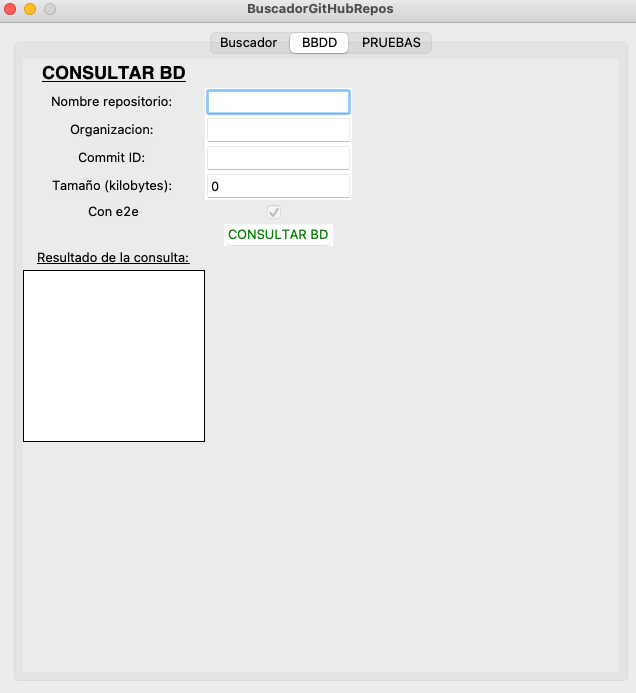
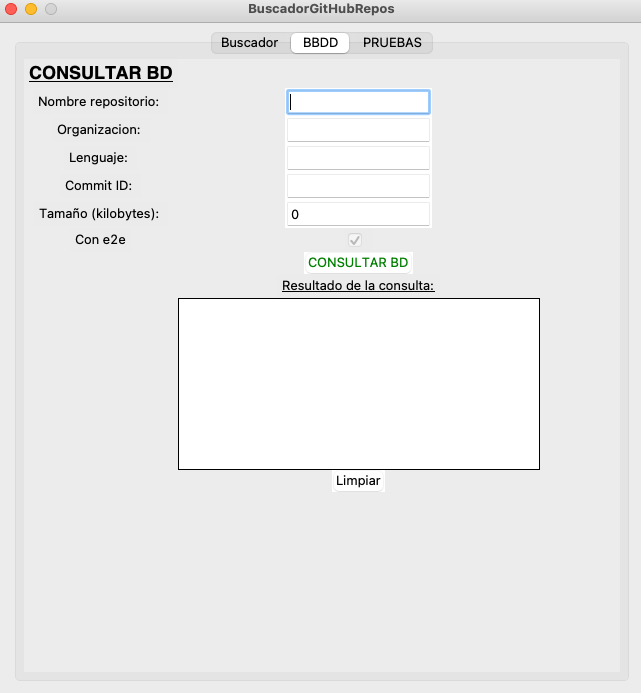
Mejora pestaña 2 interfaz
Se mejora la pestaña 2 de la interfaz con "tkinter" del buscador

diff --git a/buscador-ui.py b/buscador-ui.py
@@ -111,6 +111,7 @@ def consultarBD():
     repo.setSize(sizeBD_state.get())
     repo.setCommitID(commitIdBD_state.get())
     repo.setBoE2e(boE2eCheck_state.get())
+    repo.setTstbd("")
 
     query = repo.getFiltro()
 
@@ -119,7 +120,11 @@ def consultarBD():
     filas = executeQuery.execute(query)
 
     for fila in filas:
-        listadoBD.insert(0, fila)
+        id = fila["idrepo"]
+        nombre = fila["nombre"]
+        organizacion = fila["organizacion"]
+        url = fila["url"]
+        listadoBD.insert(0, "[" + str(id) + "]" +organizacion + "/" + nombre + ": " + "'" + url + "'")
 
 def randomizarReposCheck_clicked():
     if randomizarReposCheck_state.get():
@@ -128,6 +133,10 @@ def randomizarReposCheck_clicked():
     else:
         nRandomRepos_state.set(0)
         nRandomRepos.config(state=tk.DISABLED)
+
+def limpiarResultados():
+    print("Limpiando base de datos...")
+    listadoBD.delete(0, tk.END)
 
 # PESTAÑA 1
 
@@ -428,15 +437,22 @@ row+=1
 
 # Resultado de la búsqueda
 resultadoLbl = tk.Label(p2, text="Resultado de la consulta:", bg=backgroudLblColor)
-resultadoLbl.grid(column=0, row=row)
+resultadoLbl.grid(column=1, row=row)
 f = font.Font(resultadoLbl, resultadoLbl.cget("font"))
 f.configure(underline=True)
 resultadoLbl.configure(font=f)
 row+=1
 scrollbar = ttk.Scrollbar(p2, orient=tk.VERTICAL)
-listadoBD = tk.Listbox(p2, borderwidth=1, yscrollcommand=scrollbar.set)
-listadoBD.grid(row=row)
+listadoBD = tk.Listbox(p2, borderwidth=1, yscrollcommand=scrollbar.set, width = 40)
+listadoBD.grid(column=1, row=row)
 row+=1
+
+# BOTÓN LIMPIAR RESULTADOS
+limpiarResultadosButton = tk.Button(p2, text="Limpiar", fg="black",  command=limpiarResultados, bg=backgroudLblColor)
+#limpiarResultadosButton.pack()
+limpiarResultadosButton.grid(column=1, row=row)
+row+=1
+
 
 # PESTAÑA 3
 
